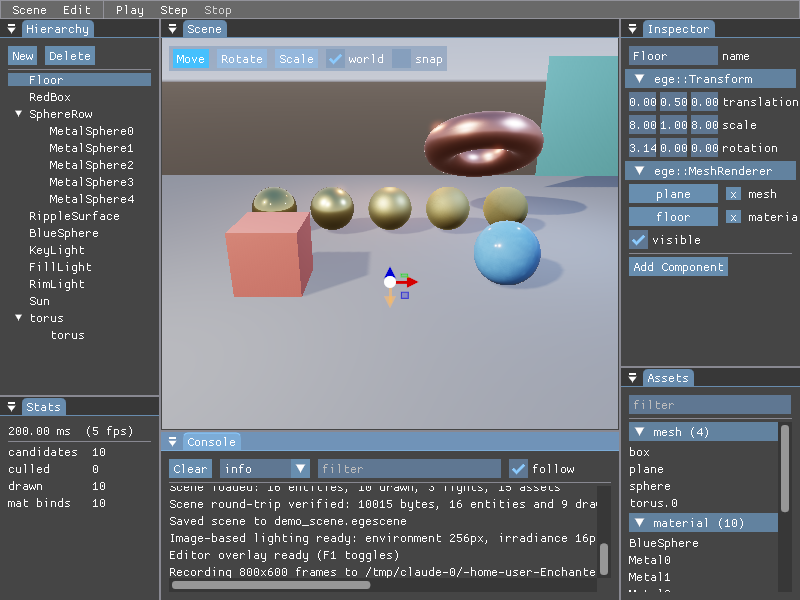
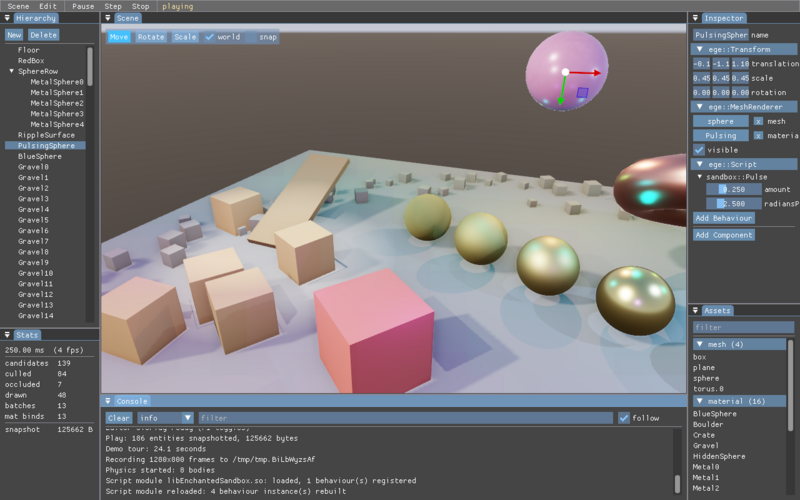
Record the engine being used, not just the picture it makes
The demo recording showed the renderer: a camera tour with the editor
hidden, which is the right way to show a mirror sphere or a swinging shadow
and the wrong way to show that any of the rest of this exists. `--editor`
keeps the panels up, and what is recorded is then the hierarchy, an
inspector generated from reflection, live draw statistics, the console and
the scene in a viewport - the engine, rather than its output.

The tour selects the entity whose behaviour came out of a runtime-loaded
module, because a screenshot of an editor is only worth taking if the panels
have something in them - and that particular something is the one thing in
the inspector the engine was not built knowing about.

The recording script rebuilds the script module partway through, so the
result contains a hot reload actually happening: the sphere's breathing
deepens, the console says the module reloaded and four behaviour instances
were rebuilt, and nothing restarted. The edit it makes is to a constant
rather than to a reflected field, and the sandbox source says why - a
field's value is carried across a reload, so changing a default would prove
nothing. It restores the source on the way out.

`--size` came with it. The default window is small enough to be polite on
any display and too small for an editor to read its own labels back in
anything but fragments.

diff --git a/src/core/Application.cpp b/src/core/Application.cpp
@@ -392,7 +392,32 @@ namespace ege {
         // separate presentation mode.
         DemoTour tour = DemoTour::demoScene();
         if (options.demo) {
-            overlay.toggle();
+            if (!options.showEditor) {
+                overlay.toggle();
+            } else {
+                // The panels are the subject, so put something in them - and
+                // preferably the entity whose behaviour came out of a module
+                // loaded at runtime, which is the one thing in the inspector
+                // the engine was not built knowing about. Anything scripted
+                // will do if the module is not loaded.
+                EntityId scripted{};
+                EntityId fromModule{};
+                for (Entity entity : world.all()) {
+                    const Script* script = world.find<Script>(entity.id());
+                    if (script == nullptr || script->behaviors.empty()) {
+                        continue;
+                    }
+                    if (scripted.isNull()) {
+                        scripted = entity.id();
+                    }
+                    for (const Script::Slot& slot : script->behaviors) {
+                        if (slot.behavior.rfind("sandbox::", 0) == 0) {
+                            fromModule = entity.id();
+                        }
+                    }
+                }
+                overlay.select(fromModule.isNull() ? scripted : fromModule);
+            }
             playMode.play(world);
             EGE_INFO("Demo tour: {:.1f} seconds", tour.duration());
         }

diff --git a/app/main.cpp b/app/main.cpp
@@ -13,6 +13,8 @@ namespace {
         EGE_INFO("  --exit-after SECONDS close after this long regardless");
         EGE_INFO("  --record DIR         write every frame there as a PNG");
         EGE_INFO("  --record-fps N       seconds per frame while recording (default 30)");
+        EGE_INFO("  --editor             keep the editor up during the demo");
+        EGE_INFO("  --size W H           open a window this size (default 800 600)");
         EGE_INFO("  --script-module PATH load this module instead of the default sandbox");
         EGE_INFO("                       ('none' loads no behaviours at all)");
     }
@@ -32,6 +34,15 @@ int main(int argc, char** argv) {
             options.recordDirectory = argv[++index];
         } else if (argument == "--record-fps" && index + 1 < argc) {
             options.recordFrameRate = std::strtof(argv[++index], nullptr);
+        } else if (argument == "--editor") {
+            options.showEditor = true;
+        } else if (argument == "--size" && index + 2 < argc) {
+            options.width = std::atoi(argv[++index]);
+            options.height = std::atoi(argv[++index]);
+            if (options.width < 64 || options.height < 64) {
+                EGE_ERROR("--size wants a window of at least 64x64");
+                return EXIT_FAILURE;
+            }
         } else if (argument == "--script-module" && index + 1 < argc) {
             options.scriptModule = argv[++index];
         } else if (argument == "--help" || argument == "-h") {

diff --git a/src/core/Application.hpp b/src/core/Application.hpp
@@ -42,6 +42,17 @@ namespace ege {
             // the executable. Empty takes the default; "none" loads nothing,
             // which is how the demo is run without it to show the difference.
             std::string scriptModule;
+            // Keeps the editor up during the demo, with an entity selected, so
+            // that what is recorded is the engine being used rather than the
+            // picture it renders. The tour still flies the camera; the scene
+            // view is a panel like any other while the editor is up.
+            bool showEditor = false;
+            // The window to open. The default is small enough to be polite on
+            // any display; the editor wants more room than that, and a
+            // recording of the editor wants enough that its panels are not
+            // reading their own labels back in fragments.
+            int width = WIDTH;
+            int height = HEIGHT;
         };
 
         Application() : Application(Options{}) {}
@@ -88,7 +99,9 @@ namespace ege {
         void verifySceneRoundTrip();
 
         Options options{};
-        Window window{WIDTH, HEIGHT, "Enchanted Engine"};
+        // Declared after options on purpose: members initialise in declaration
+        // order, so this can be built from what the command line asked for.
+        Window window{options.width, options.height, "Enchanted Engine"};
         Device device{window};
         Renderer renderer{window, device};
 

diff --git a/sandbox/SandboxBehaviors.cpp b/sandbox/SandboxBehaviors.cpp
@@ -26,6 +26,15 @@ namespace sandbox {
         float amount = 0.25f;
         float radiansPerSecond = 2.5f;
 
+        // How far the code exaggerates whatever `amount` says. A constant
+        // rather than a field, and deliberately so: this is the line
+        // scripts/record_engine_demo.sh edits mid-recording to show a reload
+        // taking effect, and a *field* would prove nothing - a field's value
+        // is carried across a reload from the instance being replaced, so
+        // changing its default would change nothing visible. What a reload
+        // has to demonstrate is that new code is running.
+        static constexpr float exaggeration = 1.f;
+
         void onSpawn() override {
             if (const ege::Transform* transform = self().find<ege::Transform>()) {
                 restingScale = transform->scale;
@@ -40,7 +49,7 @@ namespace sandbox {
             if (transform == nullptr) {
                 return;
             }
-            transform->scale = restingScale * (1.f + amount * std::sin(phase));
+            transform->scale = restingScale * (1.f + exaggeration * amount * std::sin(phase));
 
             // Anything that writes a Transform has to say so: world matrices
             // are cached behind a dirty flag, and a behaviour writing one is

diff --git a/src/editor/EditorOverlay.hpp b/src/editor/EditorOverlay.hpp
@@ -78,6 +78,15 @@ namespace ege {
 
         bool visible() const { return overlayVisible; }
 
+        // Puts an entity in the inspector. What a click in the hierarchy does,
+        // exposed so that something other than a click can do it - the demo
+        // tour selects the entity whose behaviour came from a loaded module,
+        // because a screenshot of the editor is only worth taking if the
+        // panels have something in them.
+        void select(EntityId entity) { selected = entity; }
+
+        EntityId selection() const { return selected; }
+
         // True while a panel owns the mouse or keyboard, so the camera
         // controller can stand down instead of fighting the UI for input. The
         // scene view is not a panel in this sense: hovering it is how the

diff --git a/README.md b/README.md
@@ -111,9 +111,32 @@ records its own frames — `--record DIR` writes every one as a PNG, with time
 advancing a fixed step per frame so the same recording is the same on any
 machine.
 
+## The engine, being used
+
+```sh
+./build/default/bin/EnchantedEngine --demo --editor --size 1280 800
+```
+
+![The engine running: hierarchy, scene viewport with a gizmo, an inspector showing a behaviour loaded from a script module, live draw statistics and the console — with a script hot reload happening partway through](docs/images/engine-demo.gif)
+
+The same tour with the editor left up, which is the engine rather than the
+picture it makes. Watch the **stats** panel: 139 candidates, most of them
+rejected by the frustum, a few more by the depth pyramid, and the fifty-odd
+survivors going out in fifteen draw calls because the gravel shares a mesh and
+a material.
+
+Partway through, the pink sphere's breathing suddenly deepens. Nothing
+restarted: `sandbox/SandboxBehaviors.cpp` was edited and its module rebuilt
+while the engine ran, the engine noticed the file, loaded the new one and
+rebuilt every live behaviour from it. The console says so as it happens. The
+inspector is showing `sandbox::Pulse` — a behaviour the engine was not built
+with, drawn from reflection the engine learned about when the module loaded.
+[`scripts/record_engine_demo.sh`](scripts/record_engine_demo.sh) records the
+whole thing, edit and all.
+
 ## The editor
 
-![The editor: hierarchy tree, scene viewport with a transform gizmo, reflection-driven inspector showing the selected entity's material reference, asset browser and console](docs/images/editor.png)
+![The editor after a script module reload: hierarchy tree, scene viewport with a transform gizmo, reflection-driven inspector showing a behaviour that came from a runtime-loaded module, live draw statistics, asset browser and console](docs/images/editor.png)
 
 Press **F1**. The scene renders into an offscreen image the UI samples as a
 texture, so it is a **viewport** — a panel with its own aspect ratio, with the
@@ -225,11 +248,25 @@ textures are immutable once uploaded, so those are rebuilt and the world's
 references are repointed. A broken edit costs you the edit — the parse failure
 is logged and the previous version keeps drawing.
 
-Script hot reload is not here yet, but the thing that stood in its way is
-gone: `Enchanted` builds as a shared library now, so a `dlopen`'d script
-module and the engine that loads it share one type registry, one component
-registry and one behaviour registry rather than getting a set each. What is
-left is the loading itself.
+**Script hot reload works.** `sandbox/` is a project's behaviours built as a
+module the engine loads at runtime; rebuild it while the engine is running and
+the running scene picks it up. The engine reloads the module, rebuilds every
+live behaviour from what it registered, and carries each one's reflected
+fields across — what a behaviour keeps privately does not survive, and gets
+`onSpawn` again instead, which is the call it already uses to work that state
+out from where things are. Reflect the state you want to keep.
+
+Nothing in the engine names anything in the module: a scene refers to a
+behaviour by the name it registered under, and whether that name resolves is a
+question of what has been loaded. Run with `--script-module none` and the
+sphere driven by `sandbox::Pulse` simply sits there.
+
+A module is never unloaded, deliberately. Unloading invalidates every pointer
+into its code — the vtable of every live behaviour, the factory the registry
+holds, the field accessors reflection built — and the engine has no way to
+enumerate them. Fifty reloads in a session leak fifty modules, which is a few
+megabytes; the alternative is a crash at an unrelated moment later, and no
+shipped game reloads anything.
 
 Objects sharing a mesh and a material go out as one instanced draw rather
 than one each, and the transforms they are drawn with live in a buffer the
@@ -240,8 +277,8 @@ step moves is drawn between its steps rather than on them, so a sixty hertz
 simulation does not look like sixty hertz on a faster display.
 
 Still to come: indirect draws and GPU-driven culling, the standalone editor
-application, script hot reload, skeletal animation, character controllers and
-physics constraints.
+application, skeletal animation, character controllers and physics
+constraints.
 [`docs/ROADMAP.md`](docs/ROADMAP.md) lays out the plan and tracks, per phase,
 exactly what has landed and what has not.
 
@@ -338,9 +375,14 @@ src/
                 clustered light culling, screen-space ambient occlusion,
                 the depth pyramid and occlusion culling, skybox, bloom and
                 post-process
-  scene/        world, entities, component pools, components, hierarchy, serialization
+  scene/        world, entities, component pools, components, hierarchy,
+                serialization, render-transform interpolation
+  script/       behaviours, the behaviour registry, and the runtime module
+                loader that makes them reloadable
 shaders/        GLSL, compiled to SPIR-V into the build tree; .glsl files
                 are shared declarations, included rather than compiled
+sandbox/        a project's behaviours, built as a module the engine loads at
+                runtime - this is where a game's gameplay code would live
 assets/         runtime assets, resolved via EGE_ASSET_ROOT
 tools/          EnchantedFrameChecks, which reads recorded frames back
                 and says whether a picture came out

diff --git a/docs/DEMO.md b/docs/DEMO.md
@@ -1,5 +1,50 @@
 # The demo
 
+There are two, and they show different things.
+
+| | What it shows |
+|---|---|
+| `--demo` | The picture. A camera tour with the editor hidden, because most of what a renderer does only becomes visible when the camera moves |
+| `--demo --editor` | The engine. The same tour with the panels up, and a script module rebuilt underneath it partway through |
+
+## The engine being used
+
+```sh
+./build/default/bin/EnchantedEngine --demo --editor --size 1280 800
+```
+
+![The engine running, with a script hot reload partway through](images/engine-demo.gif)
+
+What is on screen is the engine, not a presentation of it: the hierarchy, an
+inspector generated from reflection, live draw statistics, the console, and the
+scene rendering into a viewport panel the UI samples as a texture.
+
+Three things are worth watching.
+
+**The stats panel.** 139 candidates, most rejected by the frustum, a few more
+by the depth pyramid, and the fifty-odd survivors going out in fifteen draw
+calls - because the hundred and twenty gravel stones share a mesh and a
+material and are one instanced draw between them.
+
+**The inspector.** It is showing `sandbox::Pulse`, a behaviour the engine was
+not built with. It came out of `libEnchantedSandbox.so`, which was loaded at
+runtime; the fields and their sliders are drawn from reflection the engine
+learned about at the moment the module loaded.
+
+**The pink sphere, about halfway through.** Its breathing suddenly deepens and
+the console says why: the module was rebuilt while the engine was running, and
+the engine loaded the new one and rebuilt every live behaviour from it. Nothing
+restarted. `scripts/record_engine_demo.sh` records the whole thing, including
+making the edit.
+
+The edit it makes is to a constant rather than to a reflected field, and that
+is the point. A field's value is carried across a reload - written out of the
+instance being replaced and read back into its replacement - so changing a
+default would prove nothing. What a reload has to demonstrate is that new
+*code* is running.
+
+## The camera tour
+
 ```sh
 ./build/default/bin/EnchantedEngine --demo
 ```
@@ -69,6 +114,20 @@ scenes, fixed camera, the exact pixels the GPU produced.
 | Flag | Effect |
 |---|---|
 | `--demo` | Run the tour with the editor hidden and the scene playing, then close |
+| `--editor` | Keep the editor up during the tour, with a scripted entity selected |
+| `--size W H` | Open a window this size. The editor wants more than the default 800×600 |
 | `--record DIR` | Write every frame there as a PNG |
 | `--record-fps N` | Seconds per frame while recording; also fixes the simulation step |
 | `--exit-after SECONDS` | Close after this long regardless |
+| `--script-module PATH` | Load this module instead of the sandbox; `none` loads no behaviours at all |
+
+## Running it without the script module
+
+```sh
+./build/default/bin/EnchantedEngine --demo --script-module none
+```
+
+The pink sphere stops breathing and the log says
+`no behaviour named 'sandbox::Pulse'; skipping it`. Nothing else changes and
+nothing fails: a scene naming a behaviour the running build does not have is
+an ordinary situation, and it costs that behaviour rather than the scene.

diff --git a/sandbox/README.md b/sandbox/README.md
@@ -20,3 +20,9 @@ live behaviour from it. Reflected fields carry across; anything a behaviour
 keeps privately does not, and gets `onSpawn` again instead - which is the call
 a behaviour already uses to work its private state out from where things are.
 Reflect the state you want to survive.
+
+## Seeing it happen
+
+`scripts/record_engine_demo.sh` runs the demo with the editor up, edits this
+source and rebuilds the module partway through, and assembles the result into
+`docs/images/engine-demo.gif`. It restores the source on the way out.
